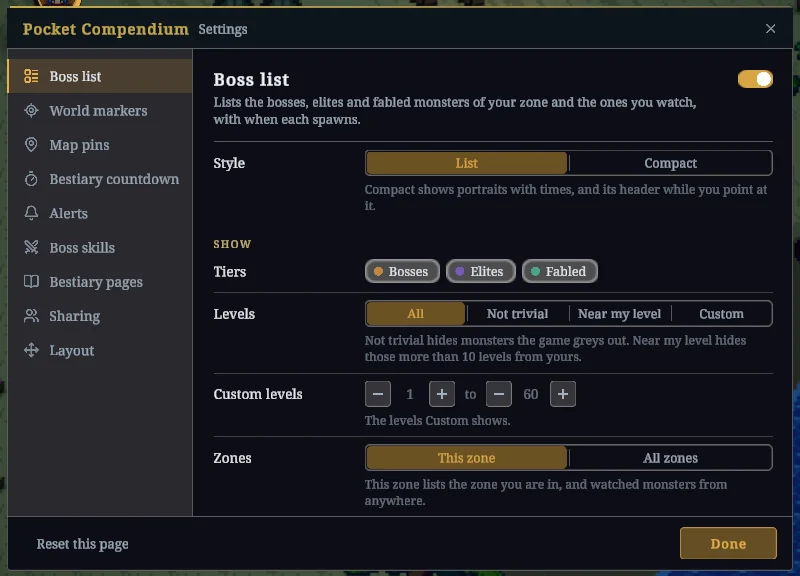
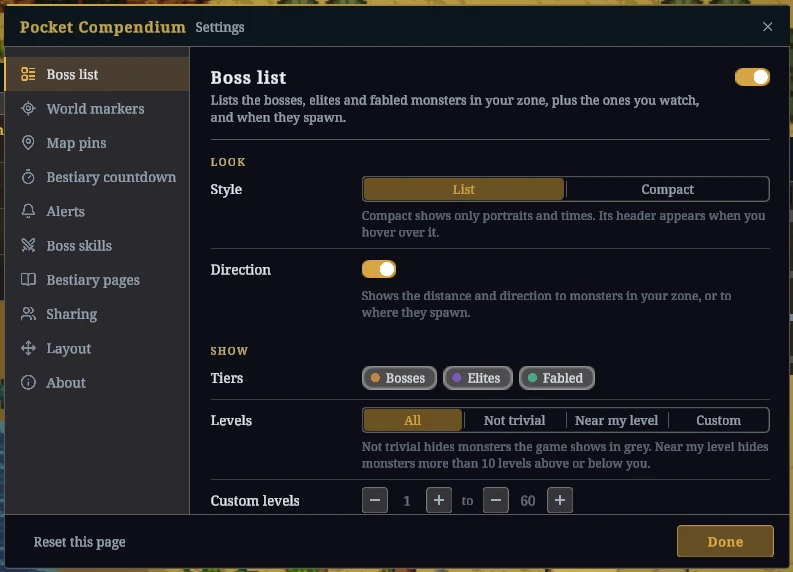
docs(pocket-compendium): show boss skills and alerts at work
The README described the boss skills panel and alerts without showing
them, and its opening and settings pictures predated the world labels'
outline and today's settings layout. New in-game shots: Ancient Cyclops
mid-cast beside the panel, the alert for a watched Xylevis, the opening
scene again, and the Boss list settings page with its headings.

The Boss skills section now says that monsters with only a basic attack
never appear and that the settings choose the tiers.

diff --git a/mods/PocketCompendium/README.md b/mods/PocketCompendium/README.md
@@ -4,7 +4,7 @@ Pocket Compendium is a MelonLoader mod for Ancient Kingdoms. It shows when bosse
 
 The mod only displays information. It doesn't change combat, loot, or spawns.
 
-![The boss list in Crescent Coast with Ancient Cyclops up, Xylevis respawning in 23:33, a chance spawn and an altar boss, and two watched monsters from Twilight Forest. Xylevis's spawn point counts down in the world, and an arrow at the screen's edge points to Ancient Cyclops, 215 yd away.](../../assets/pocket-compendium-world.webp)
+![The boss list in Crescent Coast with Ancient Cyclops up, a chance spawn, Xylevis respawning in 34:03, a watched altar boss, and the watched Spirit of the Forest from Twilight Forest. Xylevis's spawn point counts down in the world, and an arrow at the screen's edge points to Ancient Cyclops, 202 yd away.](../../assets/pocket-compendium-world.webp)
 
 [Download PocketCompendium.dll](https://ancient-kingdoms.compendiums.org/mods/PocketCompendium.dll)
 
@@ -53,6 +53,8 @@ Dead monsters in your zone are marked on their spawn point with a respawn timer.
 
 When a watched monster spawns, the game announces it on screen and in chat, for example "Xylevis has spawned in Crescent Coast." If the mod only has estimated times for a server, the alert comes when you see the monster alive.
 
+![The message "Xylevis has spawned in Crescent Coast" across the screen. The boss list shows Xylevis up 15 yd away with the gold corner of a watched monster, and Xylevis stands in the distance.](../../assets/pocket-compendium-alert.webp)
+
 ## Bestiary
 
 Every Bestiary page shows the monster's stats, lore, and drops, including monsters you haven't met yet. Hover over a drop to see the item's full tooltip. Click **Skills** below the page to see the monster's skills. Dead monsters show their respawn timer on their portrait and on their page. To open a monster's page from the world, hold Alt and click the monster.
@@ -63,7 +65,9 @@ With a gamepad, move right from the monster grid to reach the drops, down to rea
 
 ## Boss skills
 
-During a fight, a panel shows the skills of every boss, elite, and fabled monster attacking you or your pet. It shows each skill's cooldown and when the next special attack can come. Out of combat, select one of these monsters to preview its skills. Drag the panel's header to move it, and drag its corner to resize it.
+During a fight, a panel shows the skills of every boss, elite, and fabled monster attacking you or your pet, unless its only skill is a basic attack. It shows each skill's cooldown and when the next special attack can come. Out of combat, select one of these monsters to preview its skills. Drag the panel's header to move it, and drag its corner to resize it. Its settings page chooses which of the three tiers it shows.
+
+![Ancient Cyclops casting Earthshatter Slam. The panel marks it as casting, shows Strong Knockback and Grasping Roots counting down, and says the next special can come in 6.2 to 8.2 s.](../../assets/pocket-compendium-skills.webp)
 
 ## Settings
 
